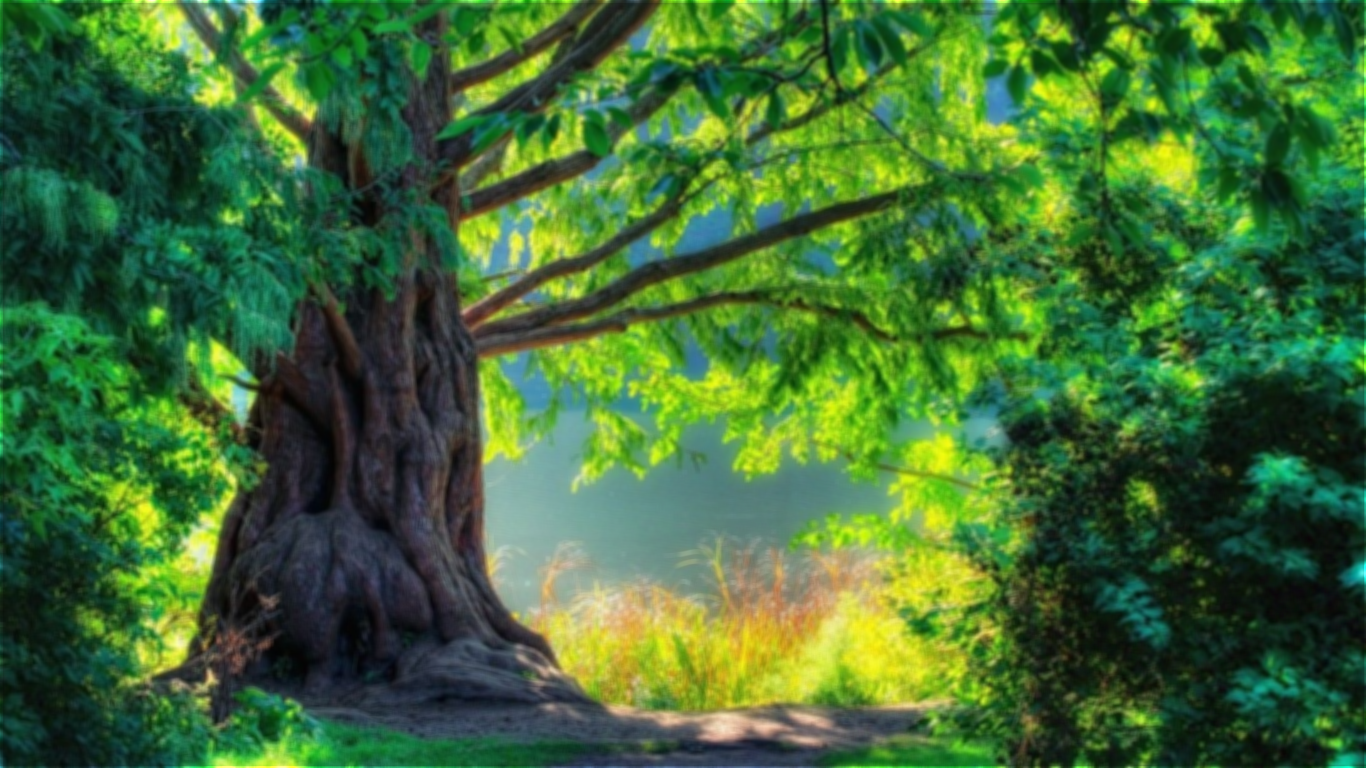
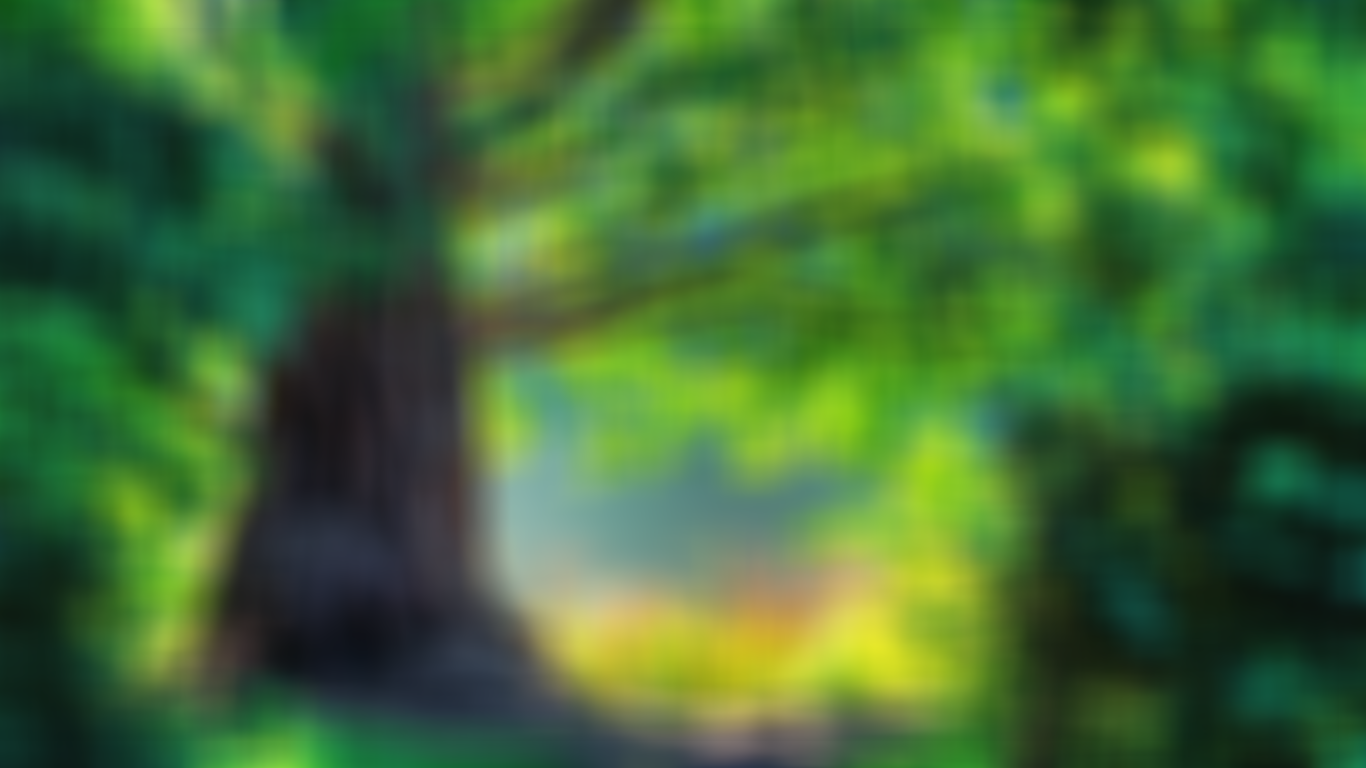
refactoring

diff --git a/main.py b/main.py
@@ -1,3 +1,8 @@
+# ===============================================================================
+# Author: Teodoro Valença de Souza Wacholski
+# Universidade Tecnológica Federal do Paraná
+# ===============================================================================
+
 import sys
 import timeit
 import numpy as np
@@ -9,13 +14,13 @@ INPUT_IMAGE = "tree.jpg"
 # This value must be an odd number.
 # Note that the larger is the BLUR_SIZE, the longer the algorithm takes.
 # Increasing the BLUR_SIZE will show how drastic is the difference in time complexity between the algorithms
-BLUR_SIZE = 5
+BLUR_SIZE = 55
 
 # Here you can choose which algorithms you want to run.
 # All you need to do is set to True or False
 EXEC = {
-    "boxBlur": True,
-    "separableBoxBlur": True,
+    "boxBlur": False,
+    "separableBoxBlur": False,
     "integralBlur": True
 }
 
